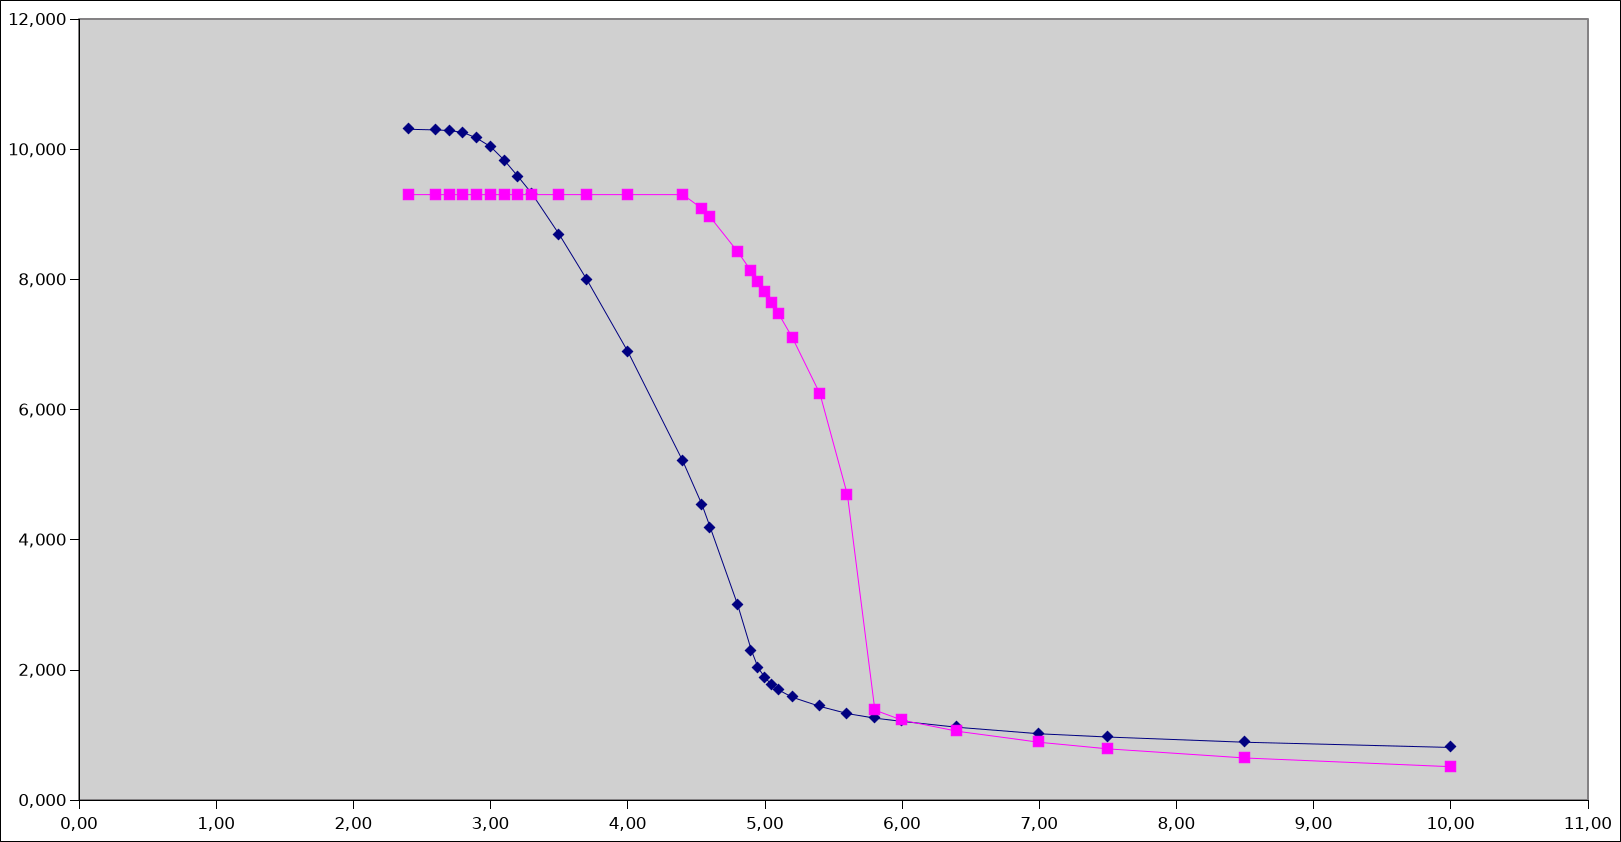
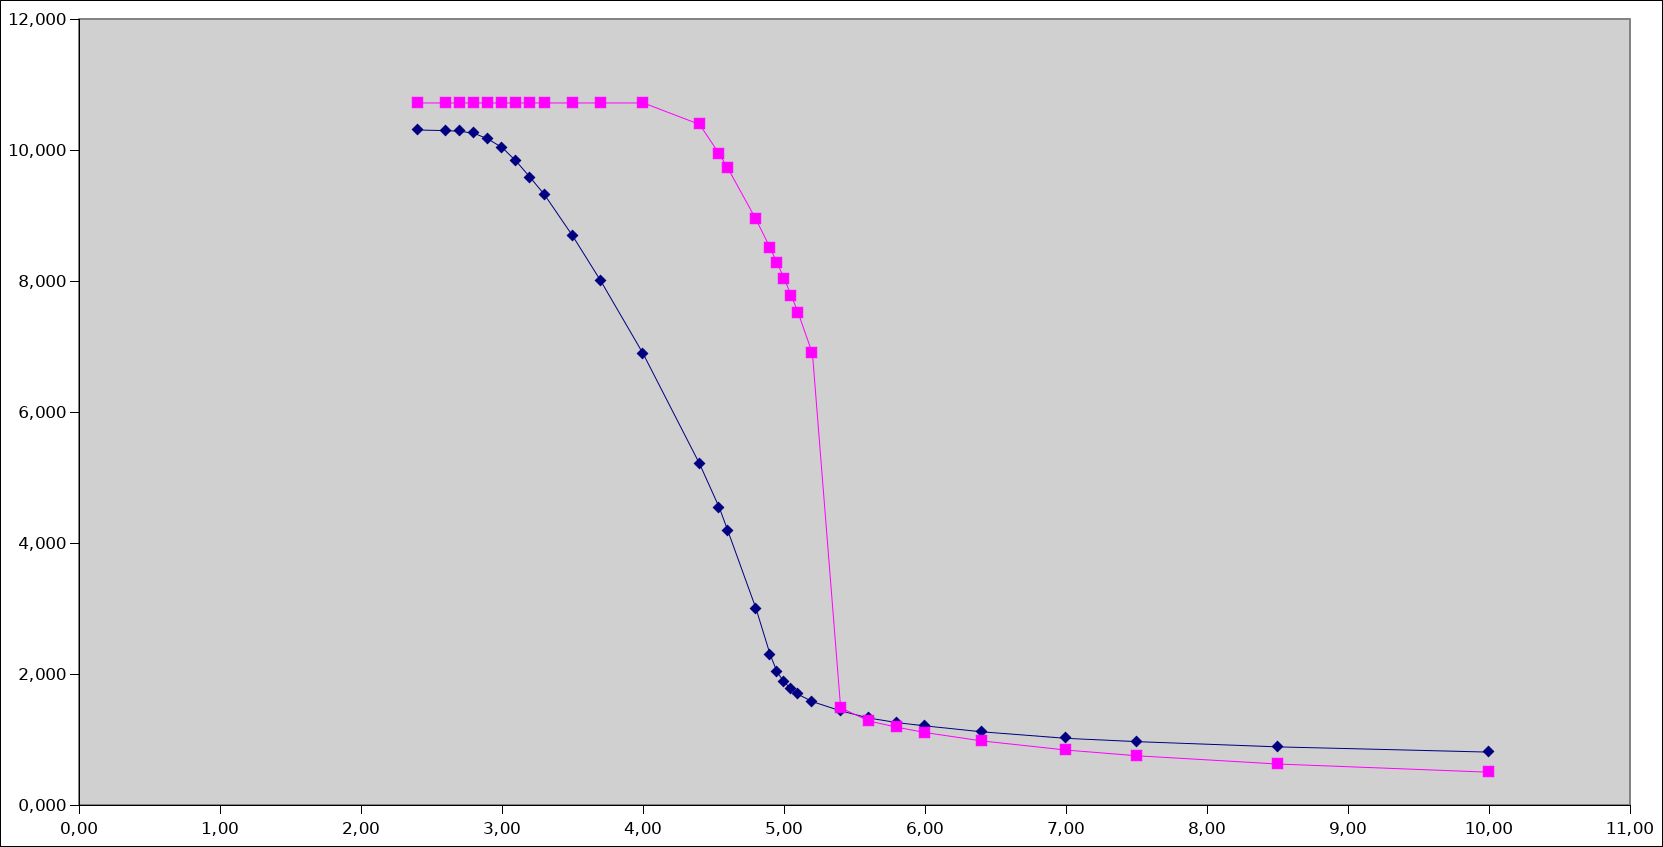
Update

diff --git a/README.md b/README.md
@@ -70,7 +70,7 @@ taken from reSID, by Dag Lem
 
 ### Emulated values
 
-Emulated values with `Vdd = 12.18`, `Vt = 1.31` and `n = 1.15`:
+Emulated values with `Vdd = 12.18`, `Vt = 1.31` and `n = 1.0` (as used in ReSID):
 
 ![screenshot opamp circuit](https://github.com/libsidplayfp/opamp-model/blob/main/img/opamp6581_vt_1_31.png)
 
